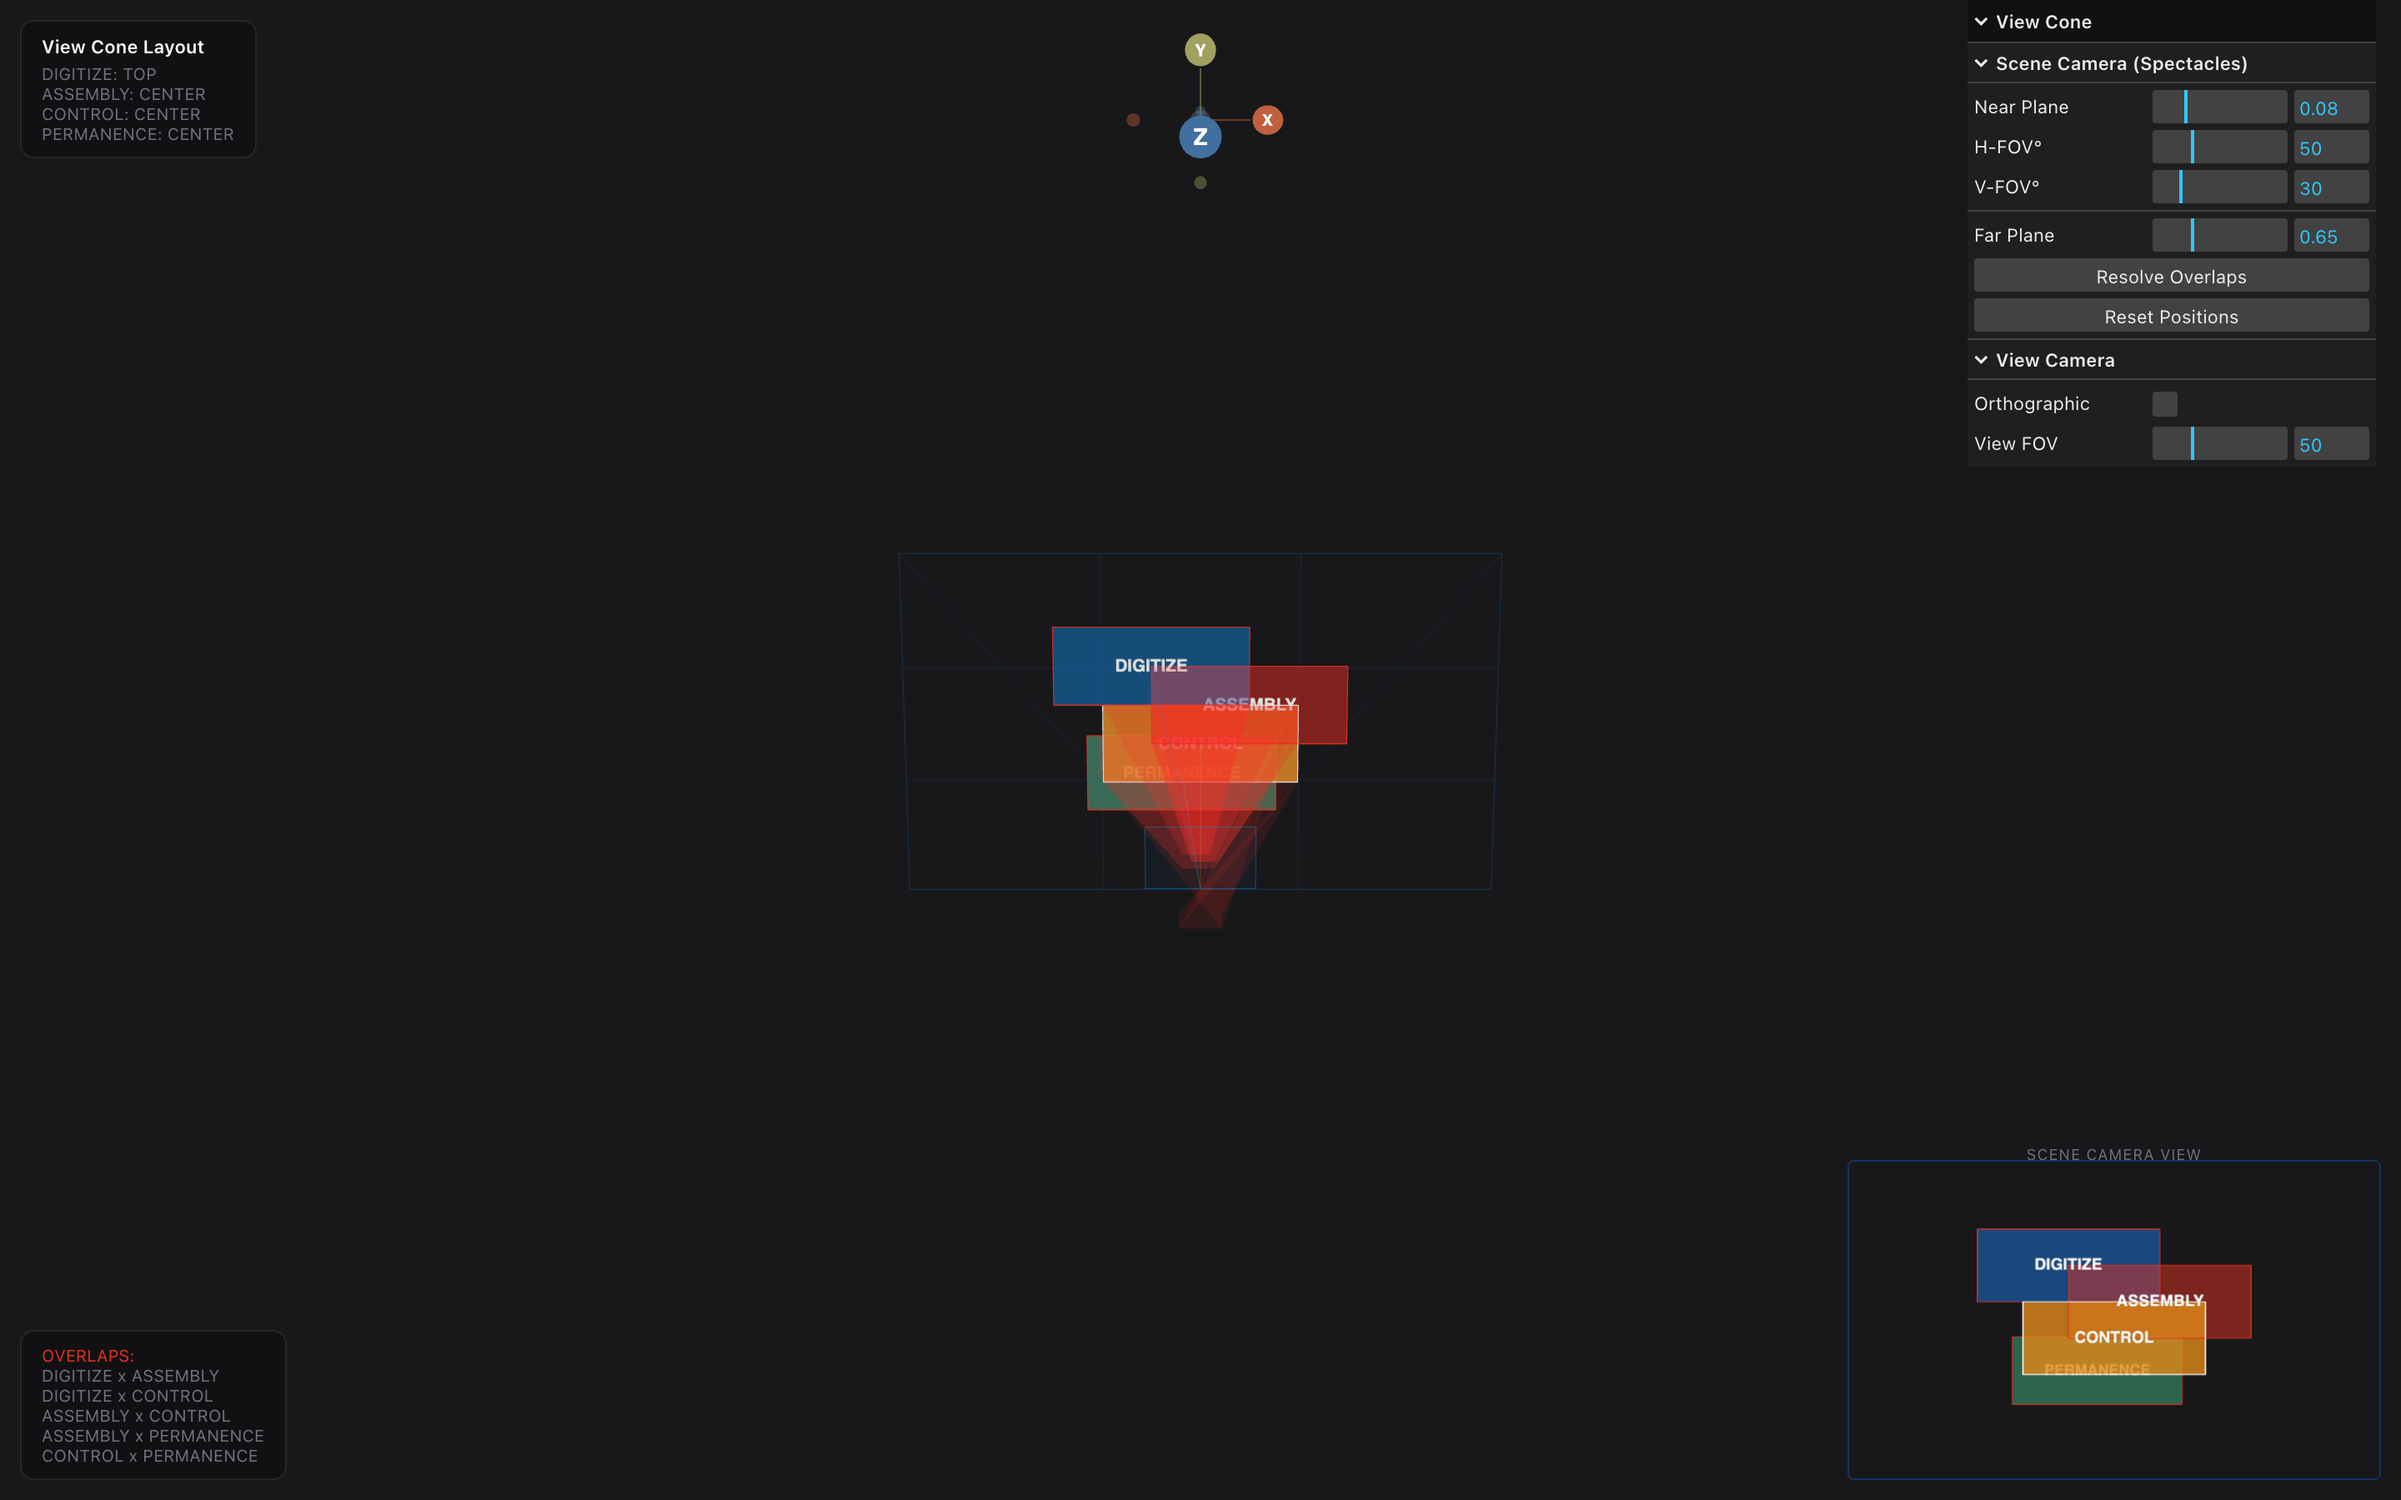
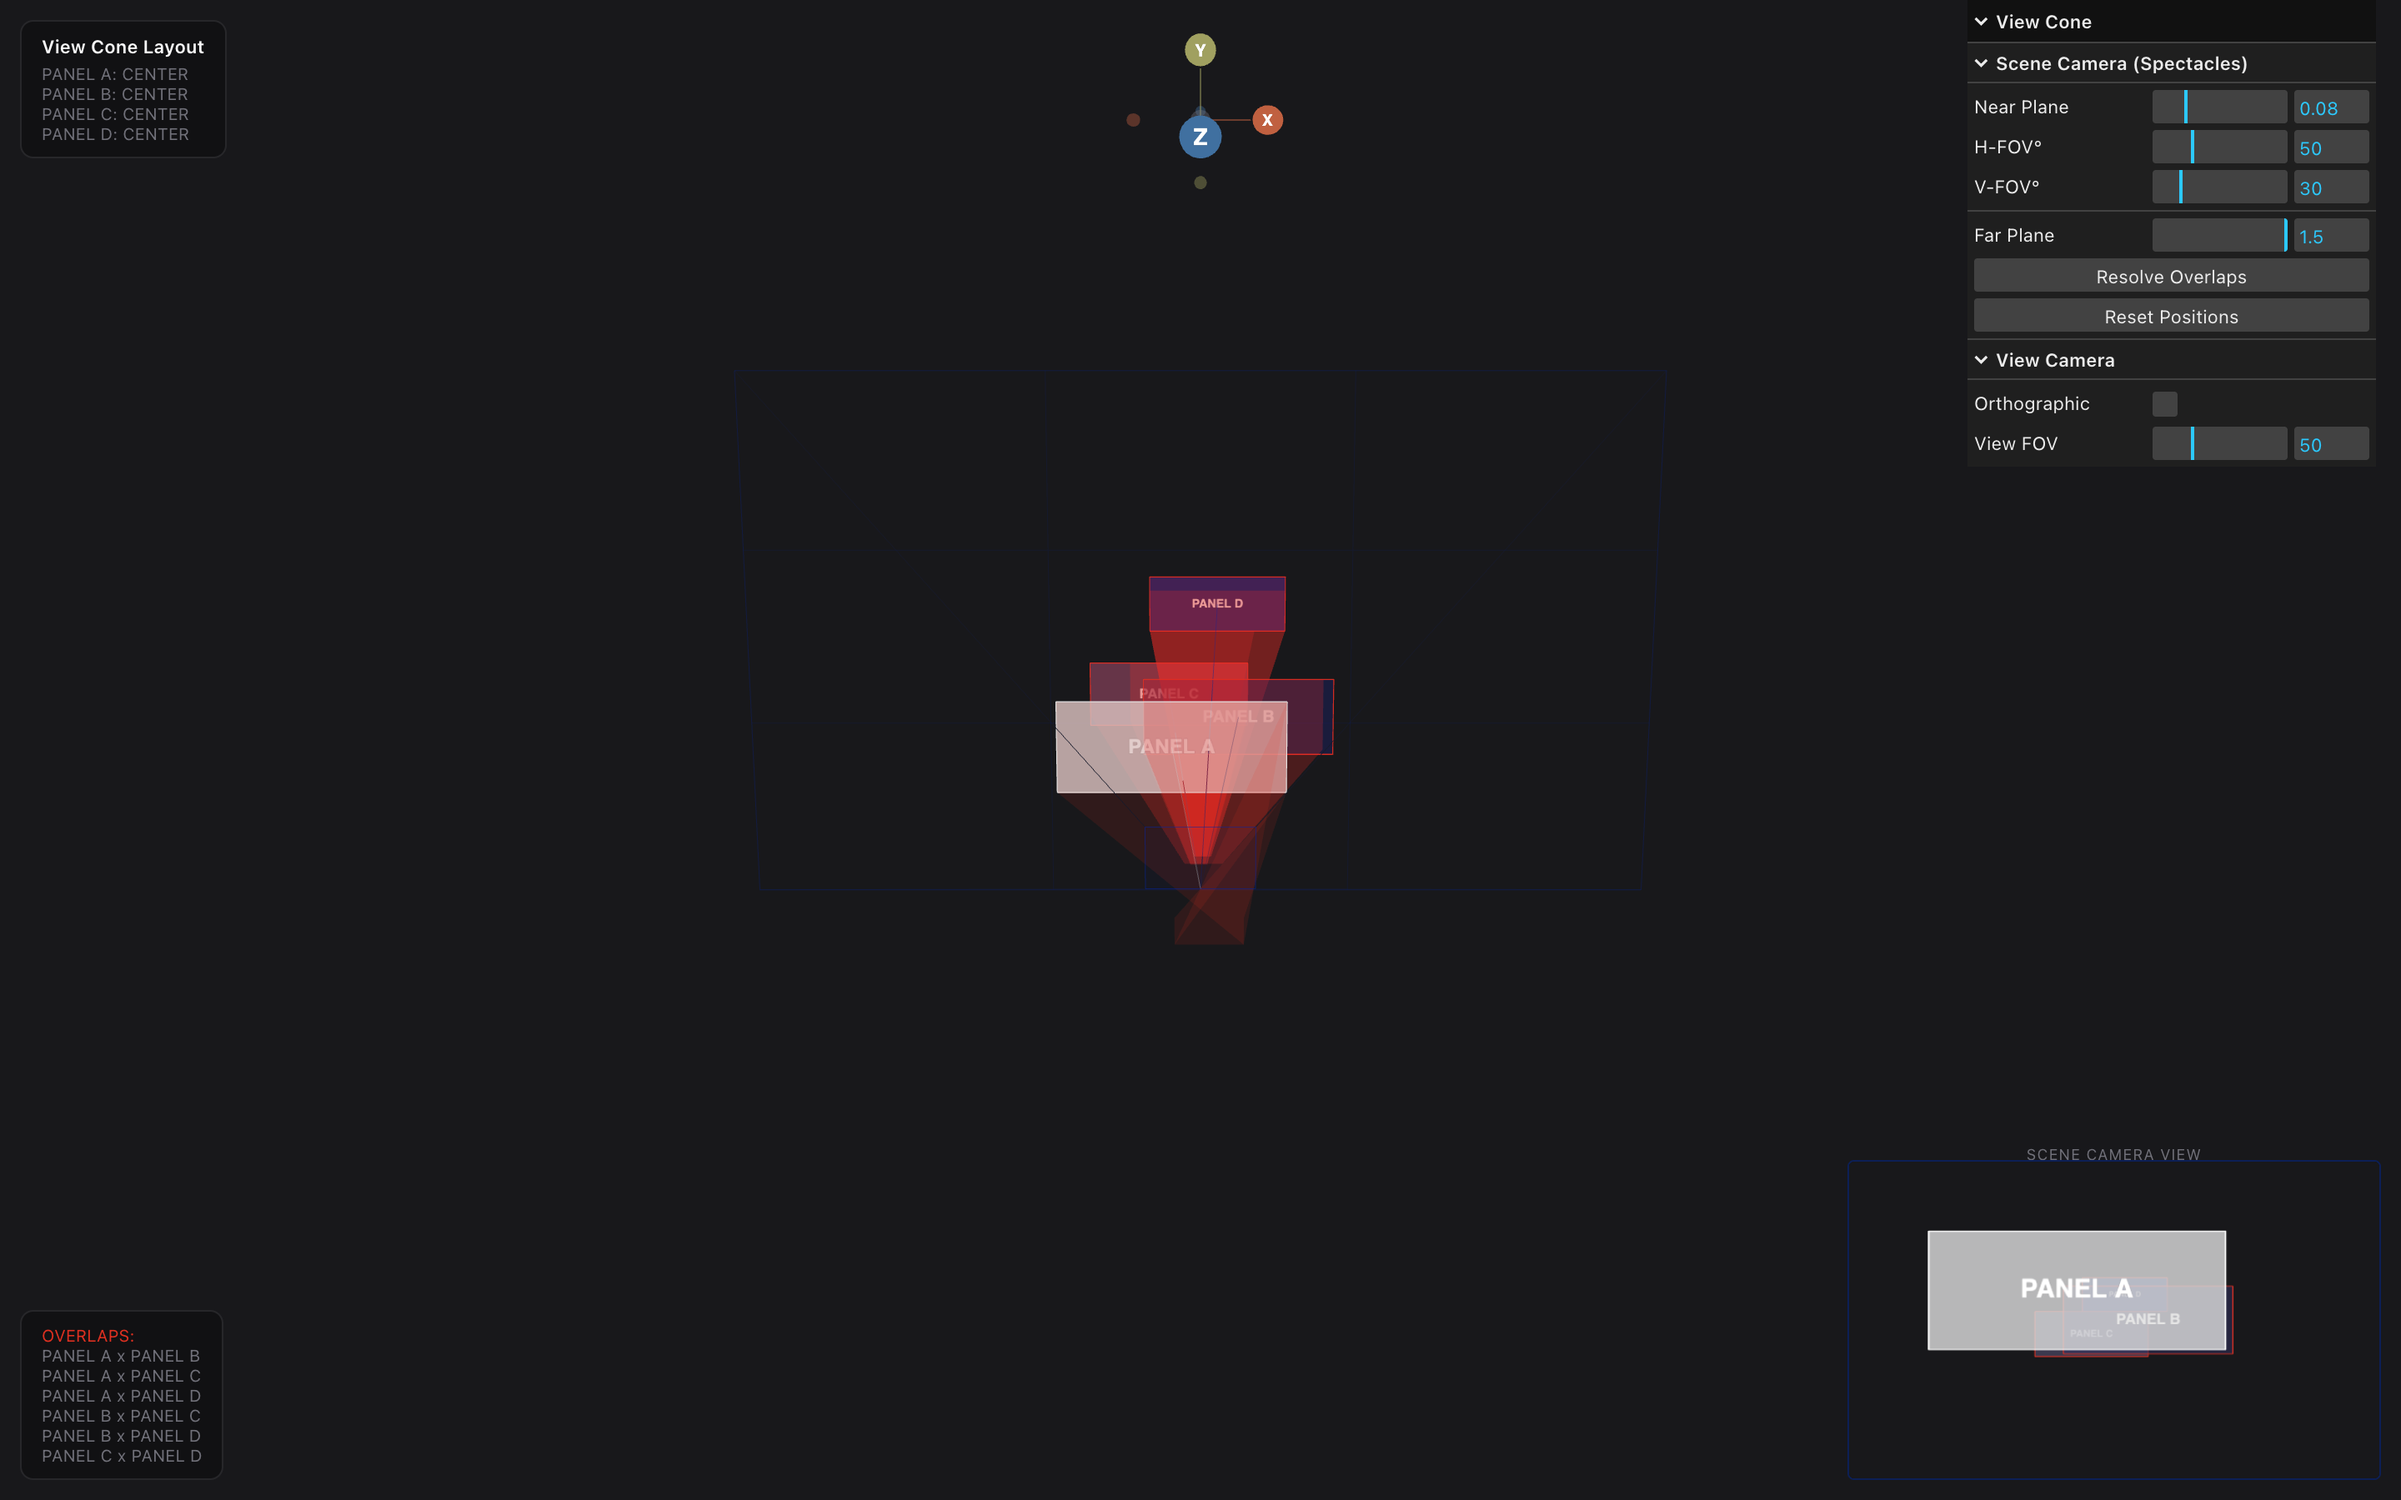
Spread panels in Z, apply muted-blue palette, generic panel names
Initial layout now stretches the four panels from z=-0.4 to z=-1.4
while keeping them clustered in angular space. The orbit view shows
the depth difference; the camera-perspective inset shows the panels
still fully overlap from the wearer's POV. Demo reads "view-dependent
overlap" at a glance.

Palette swapped to graphite/twilight-indigo/egyptian-blue/dusty-grape/
alabaster-grey. Panel names generic (PANEL A through PANEL D).

diff --git a/packages/view-cone-layout/demo/index.html b/packages/view-cone-layout/demo/index.html
@@ -9,7 +9,7 @@
   #overlap-log { position:fixed;bottom:12px;left:12px;z-index:10;font-size:10px;color:var(--dim);max-height:120px;overflow-y:auto; }
   #scene-cam-preview {
     position:fixed; bottom:12px; right:12px; z-index:10;
-    border: 1px solid rgba(24,120,224,0.4); border-radius: 4px;
+    border: 1px solid rgba(14,52,160,0.5); border-radius: 4px;
     background: #0a0a0c;
   }
   #scene-cam-label {
@@ -80,7 +80,7 @@ function updateSceneCamera() {
 }
 
 // ─── Cone border outline — projected quad edges from camera ──────────
-const coneMat = new THREE.LineBasicMaterial({ color: 0x1878e0, transparent: true, opacity: 0.25 });
+const coneMat = new THREE.LineBasicMaterial({ color: 0x0e34a0, transparent: true, opacity: 0.25 });
 const coneGroup = new THREE.Group();
 scene.add(coneGroup);
 
@@ -114,11 +114,11 @@ function buildConeOutlines(depth) {
     new THREE.Vector3(-nw, -nh, -NEAR_PLANE),
   ];
   const nearGeo = new THREE.BufferGeometry().setFromPoints([...nearCorners, nearCorners[0]]);
-  coneGroup.add(new THREE.Line(nearGeo, new THREE.LineBasicMaterial({ color: 0x1878e0, opacity: 0.5, transparent: true })));
+  coneGroup.add(new THREE.Line(nearGeo, new THREE.LineBasicMaterial({ color: 0x0e34a0, opacity: 0.5, transparent: true })));
   // Near plane filled
   const nearFillGeo = new THREE.PlaneGeometry(nw * 2, nh * 2);
   const nearFill = new THREE.Mesh(nearFillGeo, new THREE.MeshBasicMaterial({
-    color: 0x1878e0, transparent: true, opacity: 0.04, side: THREE.DoubleSide, depthWrite: false,
+    color: 0x0e34a0, transparent: true, opacity: 0.04, side: THREE.DoubleSide, depthWrite: false,
   }));
   nearFill.position.set(0, 0, -NEAR_PLANE);
   coneGroup.add(nearFill);
@@ -126,11 +126,11 @@ function buildConeOutlines(depth) {
   // Rays from near plane corners to far plane corners
   for (let i = 0; i < 4; i++) {
     const rayGeo = new THREE.BufferGeometry().setFromPoints([nearCorners[i], corners[i]]);
-    coneGroup.add(new THREE.Line(rayGeo, new THREE.LineBasicMaterial({ color: 0x1878e0, transparent: true, opacity: 0.1 })));
+    coneGroup.add(new THREE.Line(rayGeo, new THREE.LineBasicMaterial({ color: 0x0e34a0, transparent: true, opacity: 0.1 })));
   }
 
   // 3x3 sector grid lines
-  const gridMat = new THREE.LineBasicMaterial({ color: 0x1878e0, transparent: true, opacity: 0.12 });
+  const gridMat = new THREE.LineBasicMaterial({ color: 0x0e34a0, transparent: true, opacity: 0.12 });
   for (let i = 1; i < 3; i++) {
     const f = -1 + (2 * i / 3);
     // Vertical grid line
@@ -220,8 +220,9 @@ function buildAllSectors(defaultDepth) {
 
 // ─── Panel elements (draggable boxes) ────────────────────────────────
 const panels = [];
-const panelColors = [0x1878e0, 0xe03020, 0xe08818, 0x40b080];
-const panelNames = ["DIGITIZE", "ASSEMBLY", "CONTROL", "PERMANENCE"];
+// Palette: alabaster-grey, twilight-indigo, dusty-grape, egyptian-blue
+const panelColors = [0xdfdfdf, 0x2f3061, 0x5f5980, 0x0e34a0];
+const panelNames = ["PANEL A", "PANEL B", "PANEL C", "PANEL D"];
 
 const DEPTHS = { near: 0.4, mid: 0.65, far: 1.0 };
 
@@ -267,11 +268,12 @@ function createPanel(name, x, y, z, color, w = 0.2, h = 0.08) {
   };
 }
 
-// Initial positions — overlapping on purpose
-panels.push(createPanel("DIGITIZE",   -0.05, 0.06, -0.65, panelColors[0]));
-panels.push(createPanel("ASSEMBLY",    0.05, 0.02, -0.65, panelColors[1]));
-panels.push(createPanel("CONTROL",     0.0, -0.02, -0.65, panelColors[2]));
-panels.push(createPanel("PERMANENCE", -0.02, -0.06, -0.70, panelColors[3]));
+// Initial positions — clustered in angular space, spread in Z so the
+// view-dependent nature of the overlap is obvious from orbit view.
+panels.push(createPanel(panelNames[0], -0.025,  0.020, -0.40, panelColors[0]));  // near
+panels.push(createPanel(panelNames[1],  0.040,  0.000, -0.70, panelColors[1]));
+panels.push(createPanel(panelNames[2], -0.040, -0.025, -1.05, panelColors[2]));
+panels.push(createPanel(panelNames[3],  0.025,  0.060, -1.40, panelColors[3]));  // far
 
 // ─── Cone projection + overlap detection ─────────────────────────────
 function projectToAngular(pos) {
@@ -508,7 +510,7 @@ renderer.domElement.addEventListener('mousemove', (e) => {
 
 // ─── GUI ─────────────────────────────────────────────────────────────
 const params = {
-  coneDepth: 0.65,
+  coneDepth: 1.5,
   resolve: () => { resolveActive = true; resolveConflicts(); },
   reset: () => {
     resolveActive = false;
